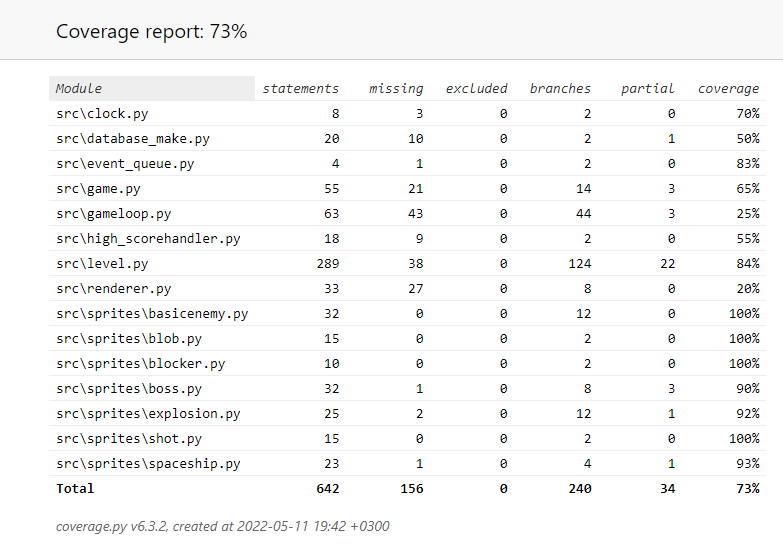
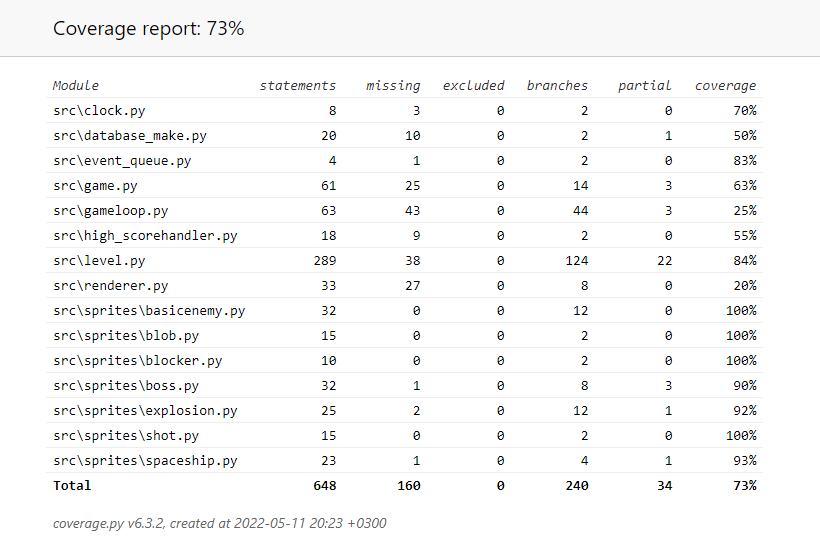
pientä säätöä, yhden bugin korjaus, todennäköinen loppucommit

diff --git a/python-space-invaders/src/game.py b/python-space-invaders/src/game.py
@@ -64,11 +64,17 @@ def inquire_parameters():
     print("The game is starting, you will be asked for a few choices.")
     print("There are 3 different difficulties: hard, medium, easy")
     questionstring = "Please enter the difficulty you desire:\n 1 = Hard, 2 = medium, 3 = easy\n"
-    level_difficulty = int(input(questionstring))
+    try:
+        level_difficulty = int(input(questionstring))
+    except ValueError:
+        level_difficulty = -1
     if level_difficulty not in [1, 2, 3]:
         level_difficulty = 2
         print("improper input, medium was chosen as default")
-    sounds_on_off = int(input("Do you want to play with sounds on? 1 = yes, 0 = no\n"))
+    try:
+        sounds_on_off = int(input("Do you want to play with sounds on? 1 = yes, 0 = no\n"))
+    except ValueError:
+        sounds_on_off = -1
     if sounds_on_off not in [0, 1]:
         sounds_on_off = 0
         print("improper input, sounds off was chosen as default")

diff --git a/python-space-invaders/src/sprites/basicenemy.py b/python-space-invaders/src/sprites/basicenemy.py
@@ -28,7 +28,7 @@ class Basicenemy(pygame.sprite.Sprite):
 
         self.previous_move_time = 0
         self.previous_shot_time = 0
-        
+
         self.rect.x = x_coord
         self.rect.y = y_coord
         if self.what_type == 1:
